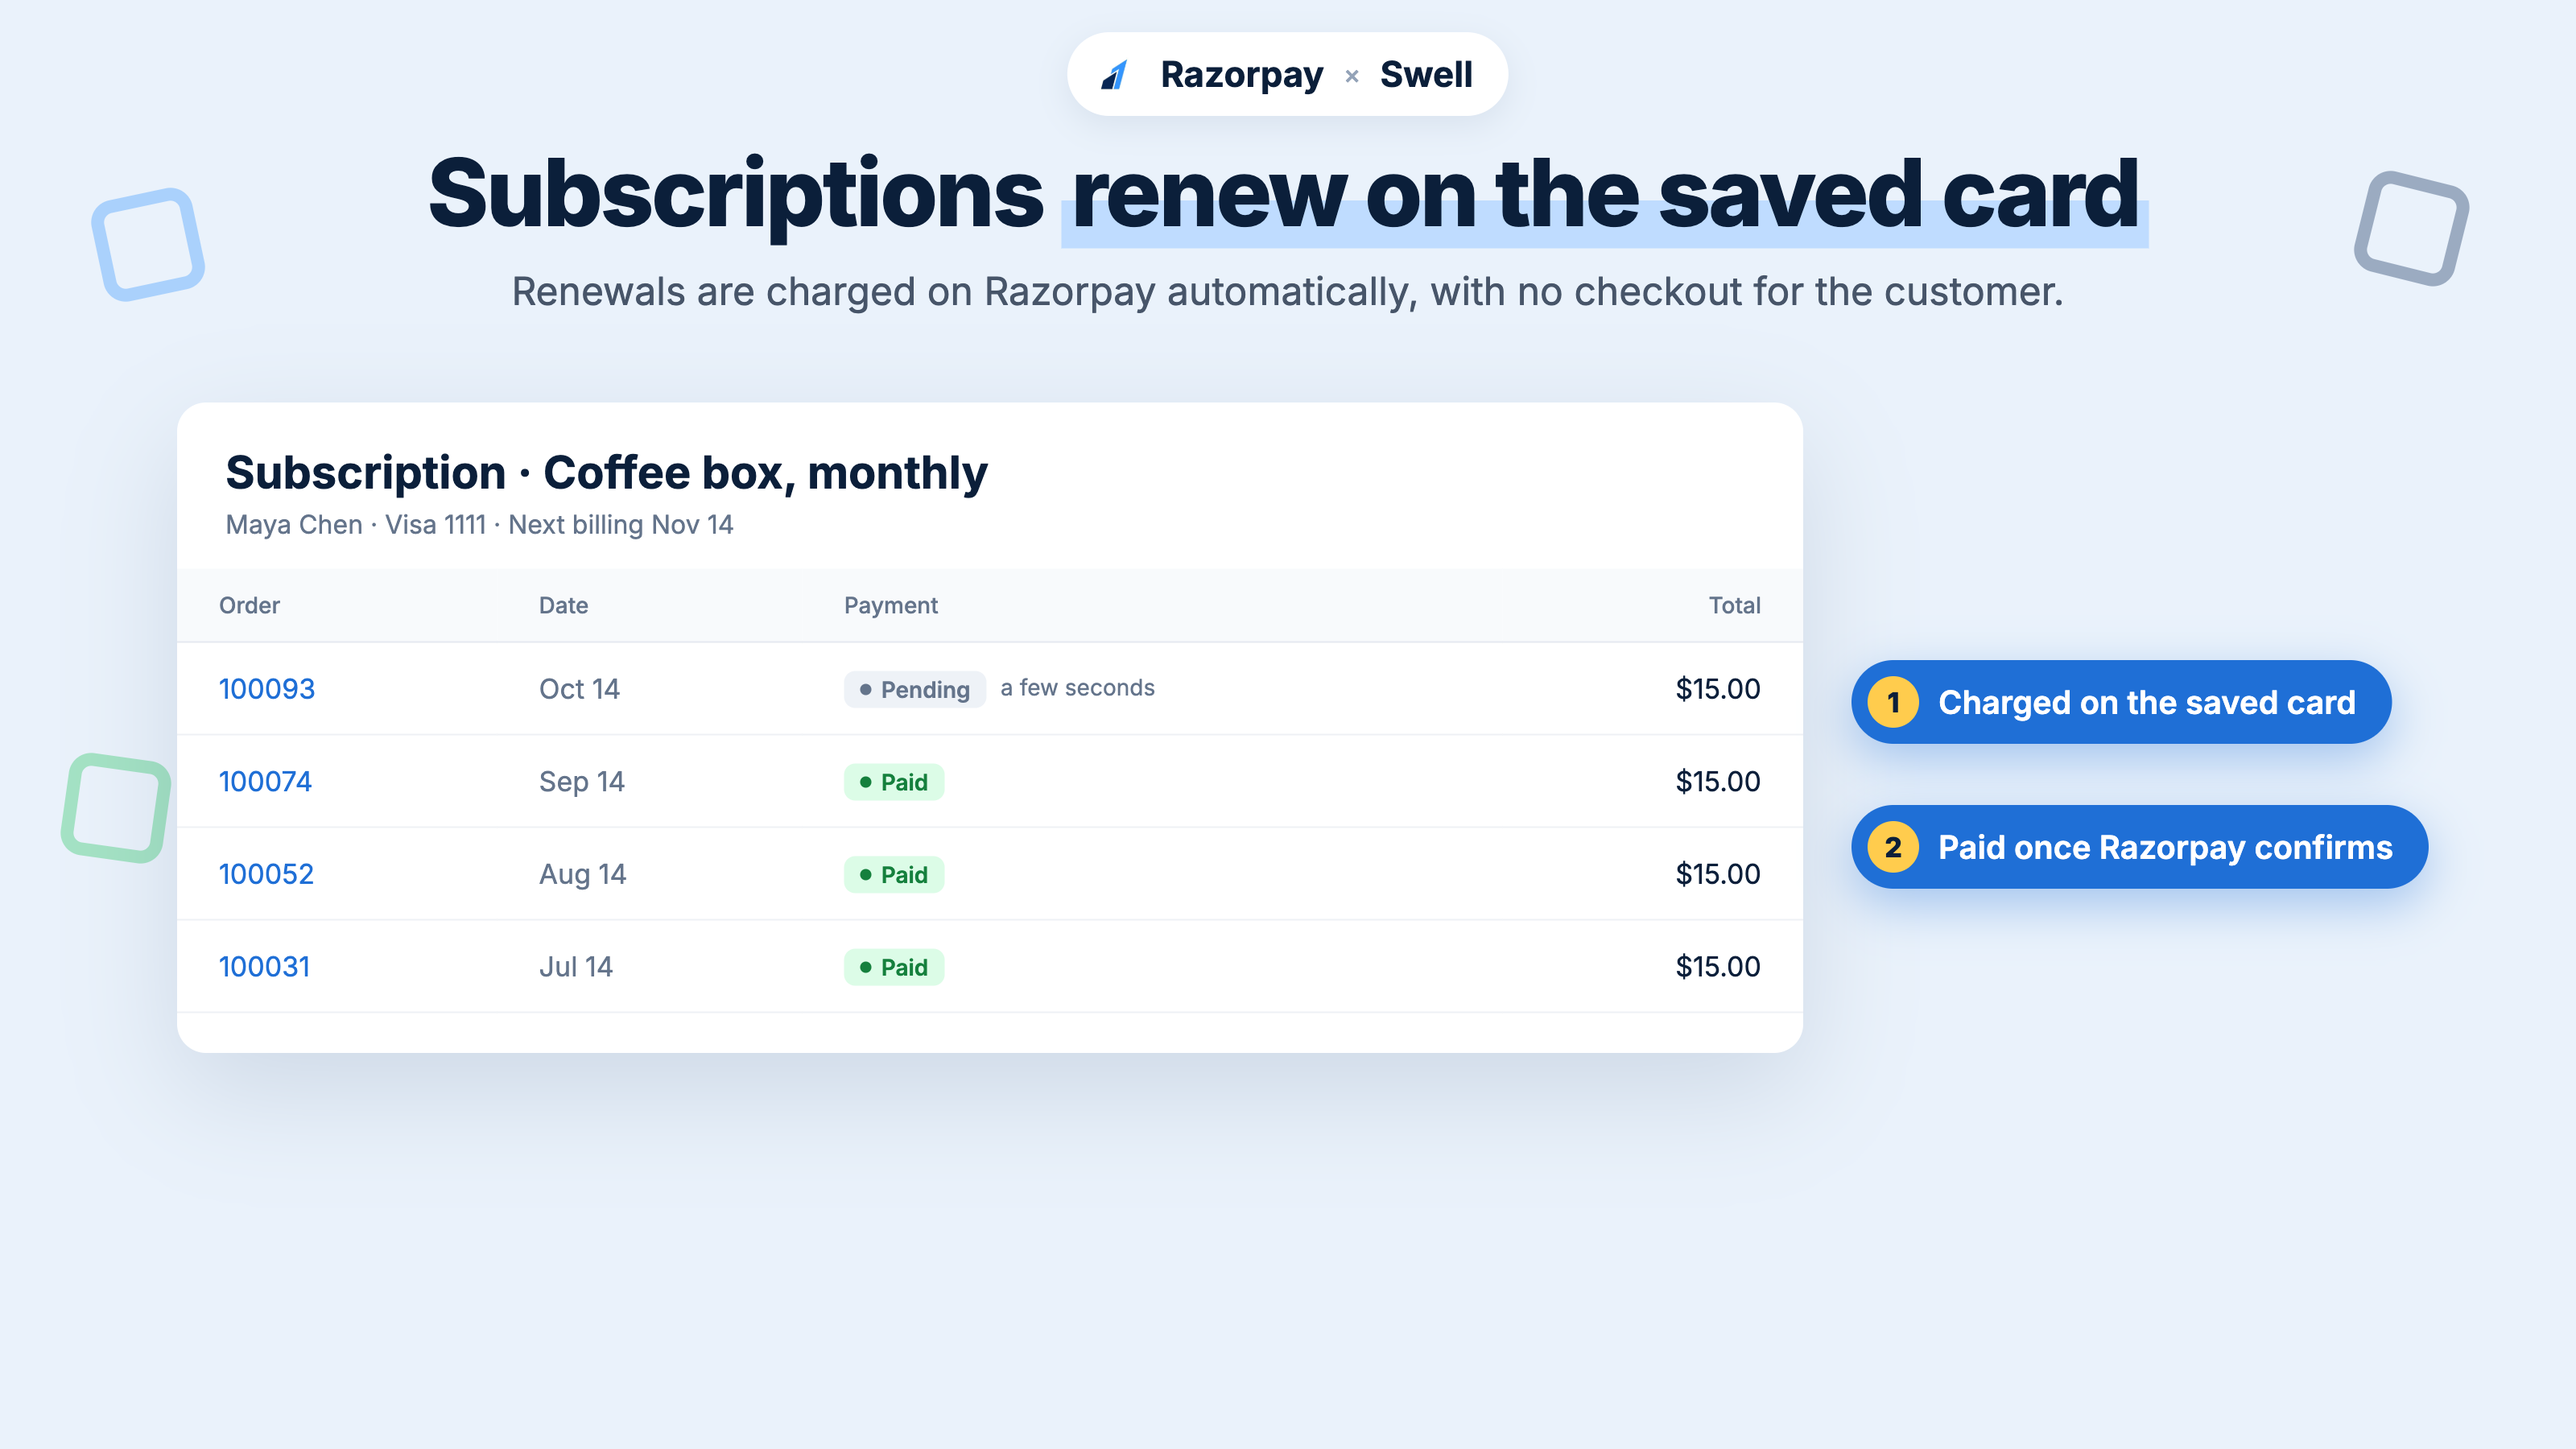
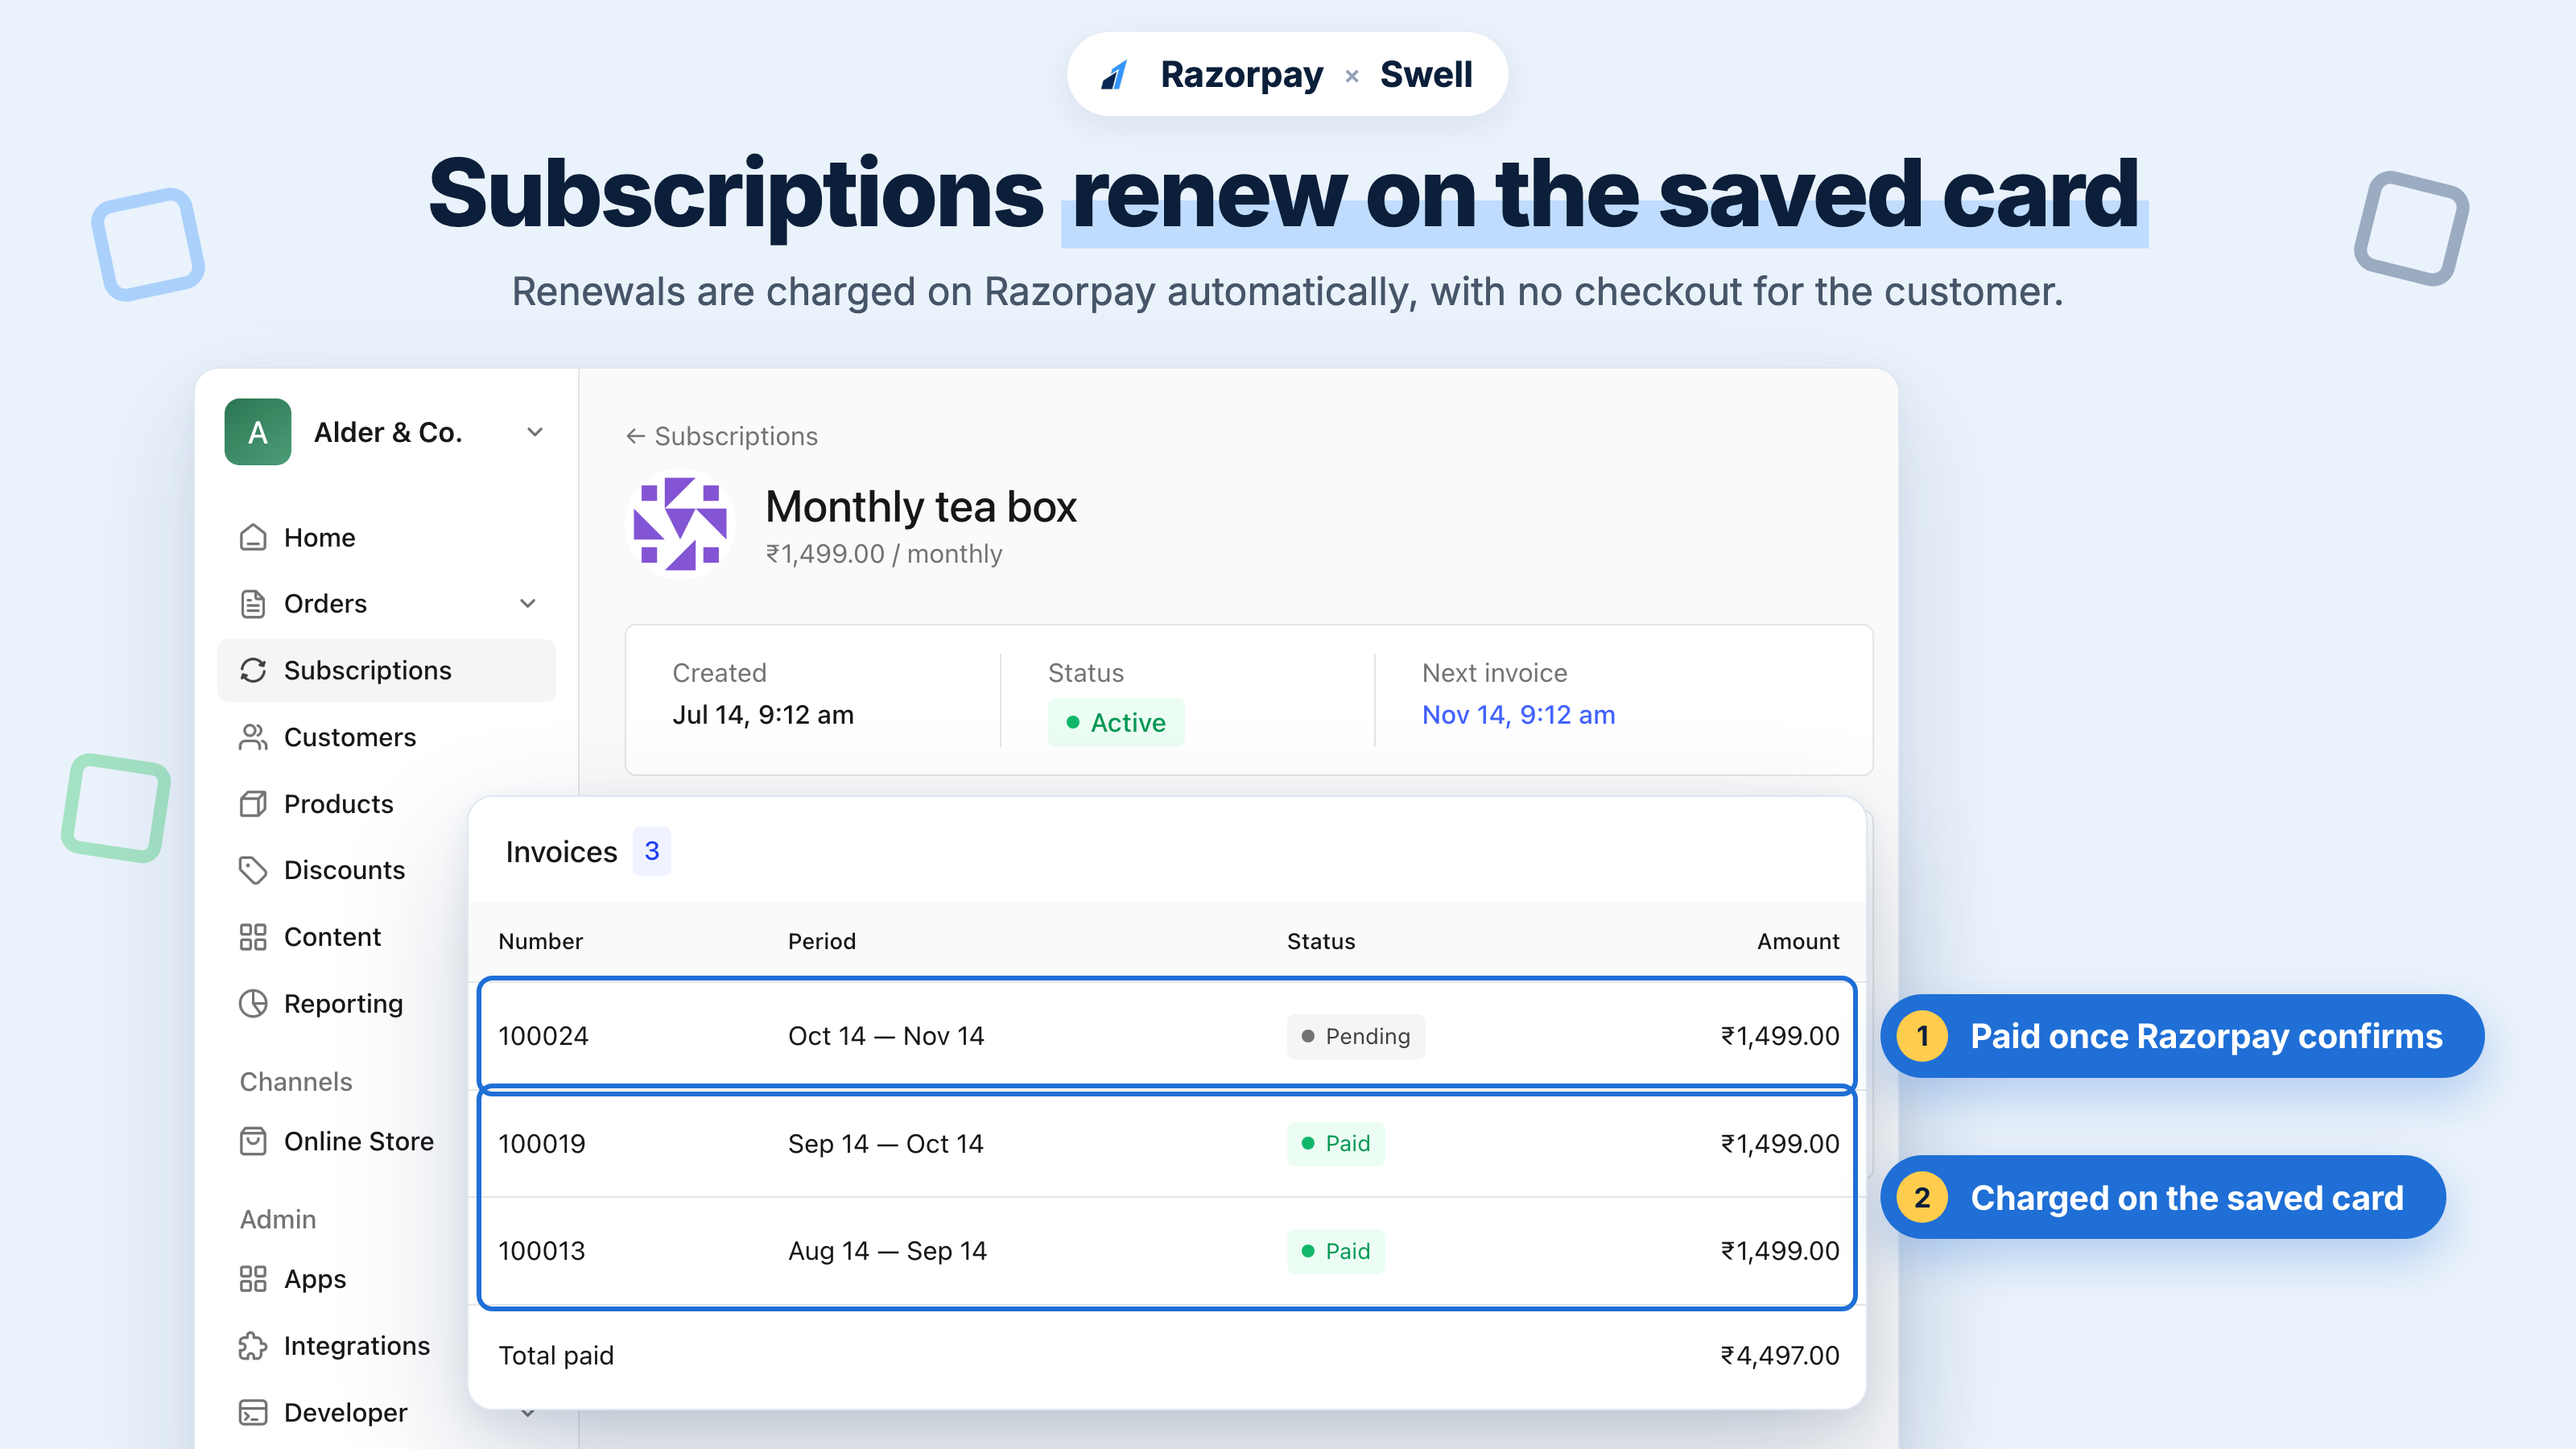
Listing update: app guide link, price_external, MIT license, masked key secret, images from the real dashboard and checkout

diff --git a/DESCRIPTION.md b/DESCRIPTION.md
@@ -1,45 +1,12 @@
-# Razorpay for Swell
+Accept card payments in your Swell checkout with Razorpay. Shoppers pay in Razorpay's secure window without leaving the checkout, and Razorpay saves their card for subscription renewals and later charges.
 
-Accept card payments in your Swell checkout with Razorpay. Shoppers pay in Razorpay's secure window, their card is saved for later charges, and every payment is completed from your store, so you decide when the money is taken.
+Every payment is completed from your store: captured when the order is placed or later from the order, checked against the order before any money is taken, and refunded from the order in Swell.
 
-## Card payments in your checkout
+- **Cards in your checkout.** Razorpay becomes the payment gateway for credit cards. Shoppers can retry a declined card in the same window, and Swell keeps only Razorpay's token for the card, with its brand, last four digits and expiry date.
+- **Capture now or later.** Payments are captured when the order is placed. Turn off Charge automatically in your order settings to only authorize them, and capture from the order within 5 days.
+- **Saved cards you can charge again.** Charge order charges the shopper's saved card, for example after the authorization expired or for a different amount. The payment shows as pending for a few seconds while Razorpay charges the card.
+- **Subscriptions that renew on their own.** Renewals are charged on the saved card automatically, with no checkout for the customer.
+- **Refunds from the order.** Refund a payment in full or in part, back to the shopper's card through Razorpay.
+- **Never charged twice.** Each payment is checked for the order's amount, currency and card method, and a retried charge finishes the earlier Razorpay payment instead of taking the money again.
 
-- Razorpay becomes the gateway of your store's **Card** payment method.
-- Shoppers pay in Razorpay's secure payment window, without leaving the checkout. If a card is declined, they can try again in the same window.
-- Card details never touch your store: Swell keeps only Razorpay's token for the card, its brand, the last four digits and the expiry date.
-
-## You decide when to take the money
-
-- With automatic capture on, the payment is taken as soon as the order is placed.
-- With it off, the card is only authorized. Capture the payment from the order, when you ship or whenever you choose, within 5 days.
-- If the authorization has expired or was released by then, use **Charge order** to charge the shopper's saved card instead.
-
-## Saved cards and subscriptions
-
-- The shopper's card is saved with Razorpay at checkout.
-- **Subscriptions** renew on the saved card automatically.
-- **Charge order** in your dashboard charges the saved card, for example for an order edited after it was placed.
-
-## Refunds from your dashboard
-
-Refund a payment, fully or in part, from the order in Swell. The refund goes back to the shopper's card through Razorpay.
-
-## Safe by design
-
-- Every payment is checked against the order before it is taken: the amount, the currency and the card method.
-- A payment is never taken twice, even when a request is retried or two charges race.
-- Charges on a saved card can take a few seconds. Their payment shows as pending in the order until Razorpay confirms it.
-
-## Set up in minutes
-
-1. Install the app.
-2. In **Settings → Payments → Card**, choose **Razorpay** as the gateway.
-3. Paste your **Key ID** and **Key secret** from the Razorpay Dashboard (**Account & Settings → API Keys**) and press **Save**.
-
-Your Razorpay account needs recurring card payments enabled, so that cards can be saved and charged again.
-
-## Good to know
-
-- Cards only. Other Razorpay methods (UPI, netbanking, wallets) are not offered.
-- A single charge on a saved card is limited to 10,000 in the order's currency.
-- On Razorpay's live mode, a charge on a saved Indian card is taken only after Razorpay notifies the cardholder, about 36 hours later. Until then the payment shows as pending in the order.
+Setup takes a few minutes. In the Razorpay Dashboard, copy your Key ID and Key secret from Account & Settings > API Keys, and make sure recurring card payments are enabled. In Swell, go to Settings > Payments, click Edit settings under Credit cards, choose Razorpay as the payment gateway, paste the keys and save. Cards only. A charge on a saved card is limited to ₹10,000, or 10,000 in another currency with two decimals. In live mode, Razorpay charges a saved Indian card about 36 hours after notifying the cardholder, and the payment shows as pending until then.
